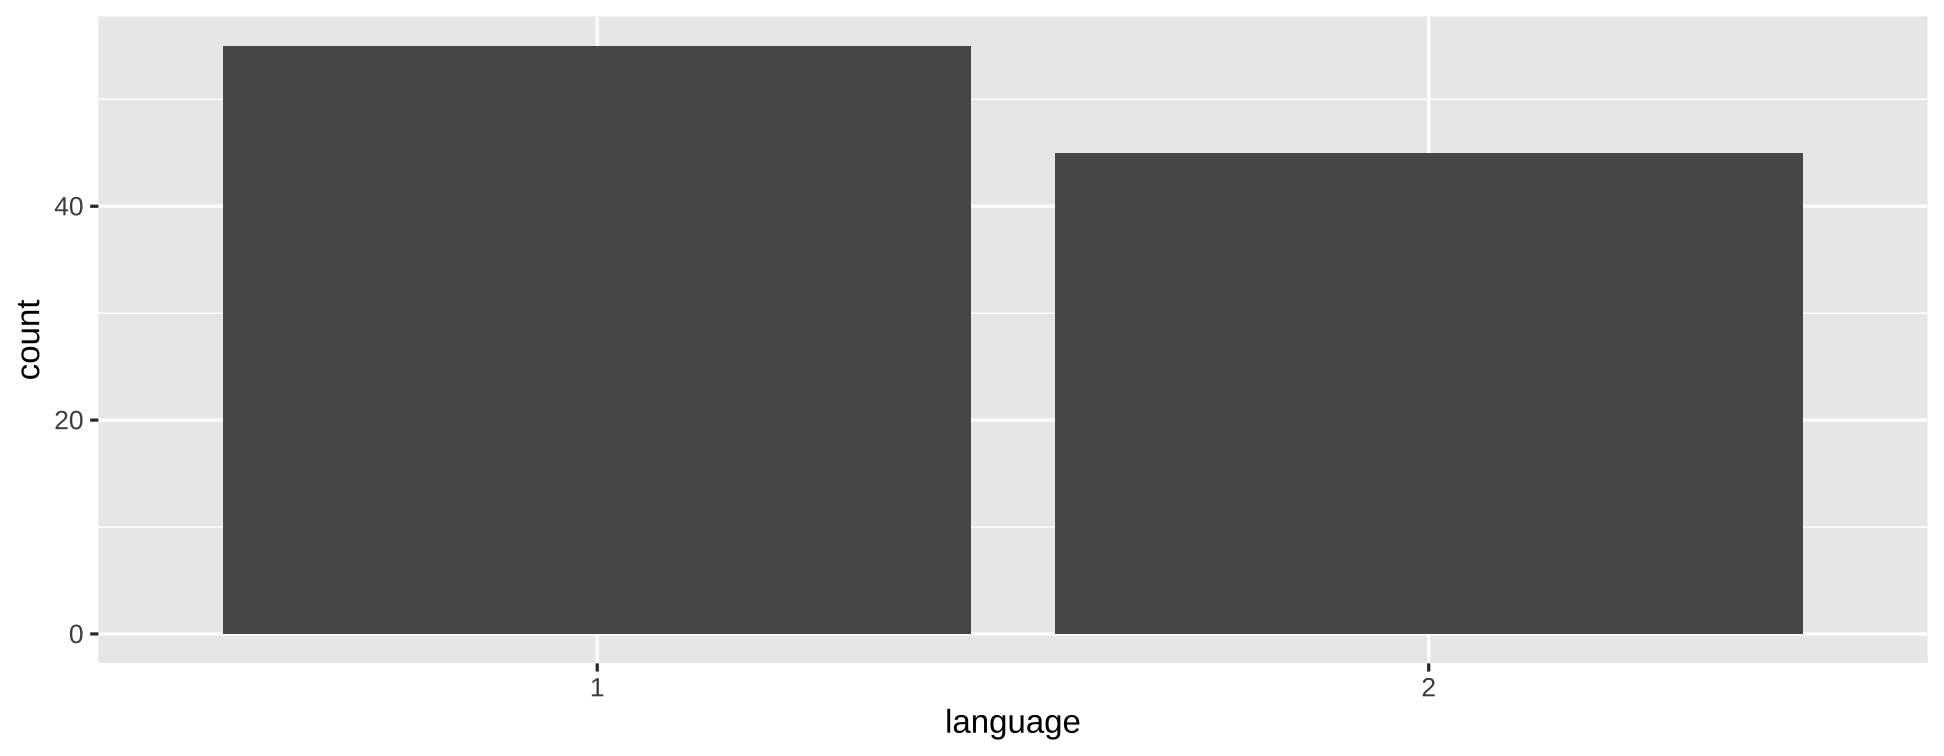
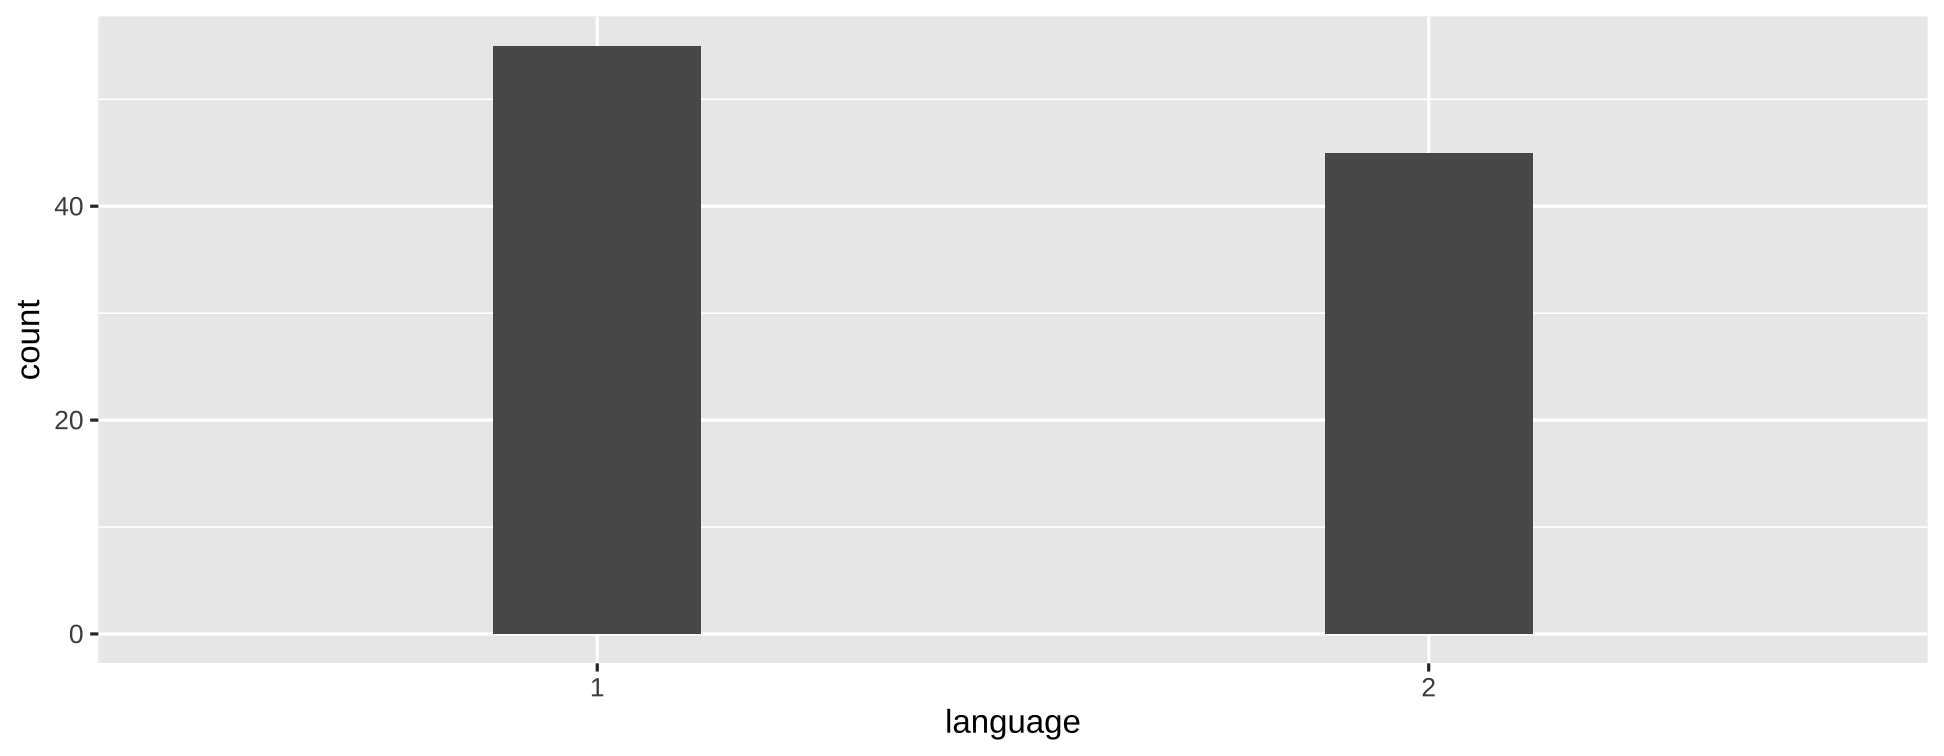
skinny bars

diff --git a/static/slides/03-Measurement/04_Measurement.html b/static/slides/03-Measurement/04_Measurement.html
@@ -4,7 +4,7 @@
     <title>PSY 503: Foundations of Statistical Methods in Psychological Science</title>
     <meta charset="utf-8" />
     <meta name="author" content="Jason Geller, Ph.D. (he/him/his)" />
-    <meta name="date" content="2022-09-18" />
+    <meta name="date" content="2022-09-19" />
     <script src="04_Measurement_files/header-attrs/header-attrs.js"></script>
     <link href="04_Measurement_files/tabwid/tabwid.css" rel="stylesheet" />
     <link href="04_Measurement_files/tabwid/scrool.css" rel="stylesheet" />
@@ -29,7 +29,7 @@ class: center, middle, inverse, title-slide
 ### Princeton University
 ]
 .date[
-### 2022-09-18
+### 2022-09-19
 ]
 
 ---
@@ -376,7 +376,7 @@ cronbach.alpha(data)
 ---
 # Cronbach's Alpha
 
-&lt;template id="a577110f-98b3-44a0-b65c-66a128707a5b"&gt;&lt;style&gt;
+&lt;template id="2de469ef-9e57-47df-b6e0-425c4efbdd45"&gt;&lt;style&gt;
 .tabwid table{
   border-spacing:0px !important;
   border-collapse:collapse;
@@ -413,11 +413,11 @@ background-color: transparent;
 .katex-display {
     margin: 0 0 !important;
 }
-&lt;/style&gt;&lt;div class="tabwid"&gt;&lt;style&gt;.cl-ee887d66{}.cl-ee833a5e{font-family:'Helvetica';font-size:11pt;font-weight:normal;font-style:normal;text-decoration:none;color:rgba(0, 0, 0, 1.00);background-color:transparent;}.cl-ee834b5c{margin:0;text-align:left;border-bottom: 0 solid rgba(0, 0, 0, 1.00);border-top: 0 solid rgba(0, 0, 0, 1.00);border-left: 0 solid rgba(0, 0, 0, 1.00);border-right: 0 solid rgba(0, 0, 0, 1.00);padding-bottom:5pt;padding-top:5pt;padding-left:5pt;padding-right:5pt;line-height: 1;background-color:transparent;}.cl-ee836cae{width:54pt;background-color:transparent;vertical-align: middle;border-bottom: 0 solid rgba(0, 0, 0, 1.00);border-top: 0 solid rgba(0, 0, 0, 1.00);border-left: 0 solid rgba(0, 0, 0, 1.00);border-right: 0 solid rgba(0, 0, 0, 1.00);margin-bottom:0;margin-top:0;margin-left:0;margin-right:0;}.cl-ee836cb8{width:54pt;background-color:transparent;vertical-align: middle;border-bottom: 2pt solid rgba(102, 102, 102, 1.00);border-top: 0 solid rgba(0, 0, 0, 1.00);border-left: 0 solid rgba(0, 0, 0, 1.00);border-right: 0 solid rgba(0, 0, 0, 1.00);margin-bottom:0;margin-top:0;margin-left:0;margin-right:0;}.cl-ee836cb9{width:54pt;background-color:transparent;vertical-align: middle;border-bottom: 2pt solid rgba(102, 102, 102, 1.00);border-top: 2pt solid rgba(102, 102, 102, 1.00);border-left: 0 solid rgba(0, 0, 0, 1.00);border-right: 0 solid rgba(0, 0, 0, 1.00);margin-bottom:0;margin-top:0;margin-left:0;margin-right:0;}&lt;/style&gt;&lt;table class='cl-ee887d66'&gt;&lt;thead&gt;&lt;tr style="overflow-wrap:break-word;"&gt;&lt;td class="cl-ee836cb9"&gt;&lt;p class="cl-ee834b5c"&gt;&lt;span class="cl-ee833a5e"&gt;Cronbach’s.Alpha&lt;/span&gt;&lt;/p&gt;&lt;/td&gt;&lt;td class="cl-ee836cb9"&gt;&lt;p class="cl-ee834b5c"&gt;&lt;span class="cl-ee833a5e"&gt;Internal.consistency&lt;/span&gt;&lt;/p&gt;&lt;/td&gt;&lt;/tr&gt;&lt;/thead&gt;&lt;tbody&gt;&lt;tr style="overflow-wrap:break-word;"&gt;&lt;td class="cl-ee836cae"&gt;&lt;p class="cl-ee834b5c"&gt;&lt;span class="cl-ee833a5e"&gt;0.9 ≤ α&lt;/span&gt;&lt;/p&gt;&lt;/td&gt;&lt;td class="cl-ee836cae"&gt;&lt;p class="cl-ee834b5c"&gt;&lt;span class="cl-ee833a5e"&gt;Excellent&lt;/span&gt;&lt;/p&gt;&lt;/td&gt;&lt;/tr&gt;&lt;tr style="overflow-wrap:break-word;"&gt;&lt;td class="cl-ee836cae"&gt;&lt;p class="cl-ee834b5c"&gt;&lt;span class="cl-ee833a5e"&gt;0.8 ≤ α &amp;lt; 0.9&lt;/span&gt;&lt;/p&gt;&lt;/td&gt;&lt;td class="cl-ee836cae"&gt;&lt;p class="cl-ee834b5c"&gt;&lt;span class="cl-ee833a5e"&gt;Good&lt;/span&gt;&lt;/p&gt;&lt;/td&gt;&lt;/tr&gt;&lt;tr style="overflow-wrap:break-word;"&gt;&lt;td class="cl-ee836cae"&gt;&lt;p class="cl-ee834b5c"&gt;&lt;span class="cl-ee833a5e"&gt;0.7 ≤ α &amp;lt; 0.8&lt;/span&gt;&lt;/p&gt;&lt;/td&gt;&lt;td class="cl-ee836cae"&gt;&lt;p class="cl-ee834b5c"&gt;&lt;span class="cl-ee833a5e"&gt;Acceptable&lt;/span&gt;&lt;/p&gt;&lt;/td&gt;&lt;/tr&gt;&lt;tr style="overflow-wrap:break-word;"&gt;&lt;td class="cl-ee836cae"&gt;&lt;p class="cl-ee834b5c"&gt;&lt;span class="cl-ee833a5e"&gt;0.6 ≤ α &amp;lt; 0.7&lt;/span&gt;&lt;/p&gt;&lt;/td&gt;&lt;td class="cl-ee836cae"&gt;&lt;p class="cl-ee834b5c"&gt;&lt;span class="cl-ee833a5e"&gt;Questionable&lt;/span&gt;&lt;/p&gt;&lt;/td&gt;&lt;/tr&gt;&lt;tr style="overflow-wrap:break-word;"&gt;&lt;td class="cl-ee836cae"&gt;&lt;p class="cl-ee834b5c"&gt;&lt;span class="cl-ee833a5e"&gt;0.5 ≤ α &amp;lt; 0.6&lt;/span&gt;&lt;/p&gt;&lt;/td&gt;&lt;td class="cl-ee836cae"&gt;&lt;p class="cl-ee834b5c"&gt;&lt;span class="cl-ee833a5e"&gt;Poor&lt;/span&gt;&lt;/p&gt;&lt;/td&gt;&lt;/tr&gt;&lt;tr style="overflow-wrap:break-word;"&gt;&lt;td class="cl-ee836cb8"&gt;&lt;p class="cl-ee834b5c"&gt;&lt;span class="cl-ee833a5e"&gt;α &amp;lt; 0.5&lt;/span&gt;&lt;/p&gt;&lt;/td&gt;&lt;td class="cl-ee836cb8"&gt;&lt;p class="cl-ee834b5c"&gt;&lt;span class="cl-ee833a5e"&gt;Unacceptable&lt;/span&gt;&lt;/p&gt;&lt;/td&gt;&lt;/tr&gt;&lt;/tbody&gt;&lt;/table&gt;&lt;/div&gt;&lt;/template&gt;
-&lt;div class="flextable-shadow-host" id="d1e4c361-e744-4ce9-90ed-6f3aab3102fc"&gt;&lt;/div&gt;
+&lt;/style&gt;&lt;div class="tabwid"&gt;&lt;style&gt;.cl-0fa8088e{}.cl-0fa3a2ee{font-family:'Helvetica';font-size:11pt;font-weight:normal;font-style:normal;text-decoration:none;color:rgba(0, 0, 0, 1.00);background-color:transparent;}.cl-0fa3b34c{margin:0;text-align:left;border-bottom: 0 solid rgba(0, 0, 0, 1.00);border-top: 0 solid rgba(0, 0, 0, 1.00);border-left: 0 solid rgba(0, 0, 0, 1.00);border-right: 0 solid rgba(0, 0, 0, 1.00);padding-bottom:5pt;padding-top:5pt;padding-left:5pt;padding-right:5pt;line-height: 1;background-color:transparent;}.cl-0fa3d7c8{width:54pt;background-color:transparent;vertical-align: middle;border-bottom: 0 solid rgba(0, 0, 0, 1.00);border-top: 0 solid rgba(0, 0, 0, 1.00);border-left: 0 solid rgba(0, 0, 0, 1.00);border-right: 0 solid rgba(0, 0, 0, 1.00);margin-bottom:0;margin-top:0;margin-left:0;margin-right:0;}.cl-0fa3d7d2{width:54pt;background-color:transparent;vertical-align: middle;border-bottom: 2pt solid rgba(102, 102, 102, 1.00);border-top: 0 solid rgba(0, 0, 0, 1.00);border-left: 0 solid rgba(0, 0, 0, 1.00);border-right: 0 solid rgba(0, 0, 0, 1.00);margin-bottom:0;margin-top:0;margin-left:0;margin-right:0;}.cl-0fa3d7dc{width:54pt;background-color:transparent;vertical-align: middle;border-bottom: 2pt solid rgba(102, 102, 102, 1.00);border-top: 2pt solid rgba(102, 102, 102, 1.00);border-left: 0 solid rgba(0, 0, 0, 1.00);border-right: 0 solid rgba(0, 0, 0, 1.00);margin-bottom:0;margin-top:0;margin-left:0;margin-right:0;}&lt;/style&gt;&lt;table class='cl-0fa8088e'&gt;&lt;thead&gt;&lt;tr style="overflow-wrap:break-word;"&gt;&lt;td class="cl-0fa3d7dc"&gt;&lt;p class="cl-0fa3b34c"&gt;&lt;span class="cl-0fa3a2ee"&gt;Cronbach’s.Alpha&lt;/span&gt;&lt;/p&gt;&lt;/td&gt;&lt;td class="cl-0fa3d7dc"&gt;&lt;p class="cl-0fa3b34c"&gt;&lt;span class="cl-0fa3a2ee"&gt;Internal.consistency&lt;/span&gt;&lt;/p&gt;&lt;/td&gt;&lt;/tr&gt;&lt;/thead&gt;&lt;tbody&gt;&lt;tr style="overflow-wrap:break-word;"&gt;&lt;td class="cl-0fa3d7c8"&gt;&lt;p class="cl-0fa3b34c"&gt;&lt;span class="cl-0fa3a2ee"&gt;0.9 ≤ α&lt;/span&gt;&lt;/p&gt;&lt;/td&gt;&lt;td class="cl-0fa3d7c8"&gt;&lt;p class="cl-0fa3b34c"&gt;&lt;span class="cl-0fa3a2ee"&gt;Excellent&lt;/span&gt;&lt;/p&gt;&lt;/td&gt;&lt;/tr&gt;&lt;tr style="overflow-wrap:break-word;"&gt;&lt;td class="cl-0fa3d7c8"&gt;&lt;p class="cl-0fa3b34c"&gt;&lt;span class="cl-0fa3a2ee"&gt;0.8 ≤ α &amp;lt; 0.9&lt;/span&gt;&lt;/p&gt;&lt;/td&gt;&lt;td class="cl-0fa3d7c8"&gt;&lt;p class="cl-0fa3b34c"&gt;&lt;span class="cl-0fa3a2ee"&gt;Good&lt;/span&gt;&lt;/p&gt;&lt;/td&gt;&lt;/tr&gt;&lt;tr style="overflow-wrap:break-word;"&gt;&lt;td class="cl-0fa3d7c8"&gt;&lt;p class="cl-0fa3b34c"&gt;&lt;span class="cl-0fa3a2ee"&gt;0.7 ≤ α &amp;lt; 0.8&lt;/span&gt;&lt;/p&gt;&lt;/td&gt;&lt;td class="cl-0fa3d7c8"&gt;&lt;p class="cl-0fa3b34c"&gt;&lt;span class="cl-0fa3a2ee"&gt;Acceptable&lt;/span&gt;&lt;/p&gt;&lt;/td&gt;&lt;/tr&gt;&lt;tr style="overflow-wrap:break-word;"&gt;&lt;td class="cl-0fa3d7c8"&gt;&lt;p class="cl-0fa3b34c"&gt;&lt;span class="cl-0fa3a2ee"&gt;0.6 ≤ α &amp;lt; 0.7&lt;/span&gt;&lt;/p&gt;&lt;/td&gt;&lt;td class="cl-0fa3d7c8"&gt;&lt;p class="cl-0fa3b34c"&gt;&lt;span class="cl-0fa3a2ee"&gt;Questionable&lt;/span&gt;&lt;/p&gt;&lt;/td&gt;&lt;/tr&gt;&lt;tr style="overflow-wrap:break-word;"&gt;&lt;td class="cl-0fa3d7c8"&gt;&lt;p class="cl-0fa3b34c"&gt;&lt;span class="cl-0fa3a2ee"&gt;0.5 ≤ α &amp;lt; 0.6&lt;/span&gt;&lt;/p&gt;&lt;/td&gt;&lt;td class="cl-0fa3d7c8"&gt;&lt;p class="cl-0fa3b34c"&gt;&lt;span class="cl-0fa3a2ee"&gt;Poor&lt;/span&gt;&lt;/p&gt;&lt;/td&gt;&lt;/tr&gt;&lt;tr style="overflow-wrap:break-word;"&gt;&lt;td class="cl-0fa3d7d2"&gt;&lt;p class="cl-0fa3b34c"&gt;&lt;span class="cl-0fa3a2ee"&gt;α &amp;lt; 0.5&lt;/span&gt;&lt;/p&gt;&lt;/td&gt;&lt;td class="cl-0fa3d7d2"&gt;&lt;p class="cl-0fa3b34c"&gt;&lt;span class="cl-0fa3a2ee"&gt;Unacceptable&lt;/span&gt;&lt;/p&gt;&lt;/td&gt;&lt;/tr&gt;&lt;/tbody&gt;&lt;/table&gt;&lt;/div&gt;&lt;/template&gt;
+&lt;div class="flextable-shadow-host" id="d9bbeaf7-84e1-4f3b-ad45-df2c1496d51e"&gt;&lt;/div&gt;
 &lt;script&gt;
-var dest = document.getElementById("d1e4c361-e744-4ce9-90ed-6f3aab3102fc");
-var template = document.getElementById("a577110f-98b3-44a0-b65c-66a128707a5b");
+var dest = document.getElementById("d9bbeaf7-84e1-4f3b-ad45-df2c1496d51e");
+var template = document.getElementById("2de469ef-9e57-47df-b6e0-425c4efbdd45");
 var caption = template.content.querySelector("caption");
 if(caption) {
   caption.style.cssText = "display:block;text-align:center;";
@@ -464,7 +464,7 @@ For example: if there were 5 agreements and 3 disagreements…
 2. [b] 5 + 3 = 8
 3. [c] 500/8 = 62.5% inter-observer agreement
 
-<div class="countdown" id="timer_d4077e86" data-update-every="1" tabindex="0" style="right:0;bottom:0;">
+<div class="countdown" id="timer_6f96809e" data-update-every="1" tabindex="0" style="right:0;bottom:0;">
 <div class="countdown-controls"><button class="countdown-bump-down">&minus;</button><button class="countdown-bump-up">&plus;</button></div>
 <code class="countdown-time"><span class="countdown-digits minutes">05</span><span class="countdown-digits colon">:</span><span class="countdown-digits seconds">00</span></code>
 </div>
@@ -517,7 +517,7 @@ Take a few minutes to write down your description of the main offender
  [b] 5 + 3 = 8
  [c] 500/8 = 62.5% inter-observer agreement
  
-<div class="countdown" id="timer_fd100470" data-update-every="1" tabindex="0" style="right:0;bottom:0;">
+<div class="countdown" id="timer_a44f117c" data-update-every="1" tabindex="0" style="right:0;bottom:0;">
 <div class="countdown-controls"><button class="countdown-bump-down">&minus;</button><button class="countdown-bump-up">&plus;</button></div>
 <code class="countdown-time"><span class="countdown-digits minutes">05</span><span class="countdown-digits colon">:</span><span class="countdown-digits seconds">00</span></code>
 </div>
@@ -551,7 +551,7 @@ Now, using the same formula, calculate how well you agree within yourself (test-
 
 - Inter-observer agreement = `# agreements X 100 / # agreements + # disagreements`
 
-<div class="countdown" id="timer_38b8ce45" data-update-every="1" tabindex="0" style="right:0;bottom:0;">
+<div class="countdown" id="timer_64fb7b6f" data-update-every="1" tabindex="0" style="right:0;bottom:0;">
 <div class="countdown-controls"><button class="countdown-bump-down">&minus;</button><button class="countdown-bump-up">&plus;</button></div>
 <code class="countdown-time"><span class="countdown-digits minutes">05</span><span class="countdown-digits colon">:</span><span class="countdown-digits seconds">00</span></code>
 </div>
